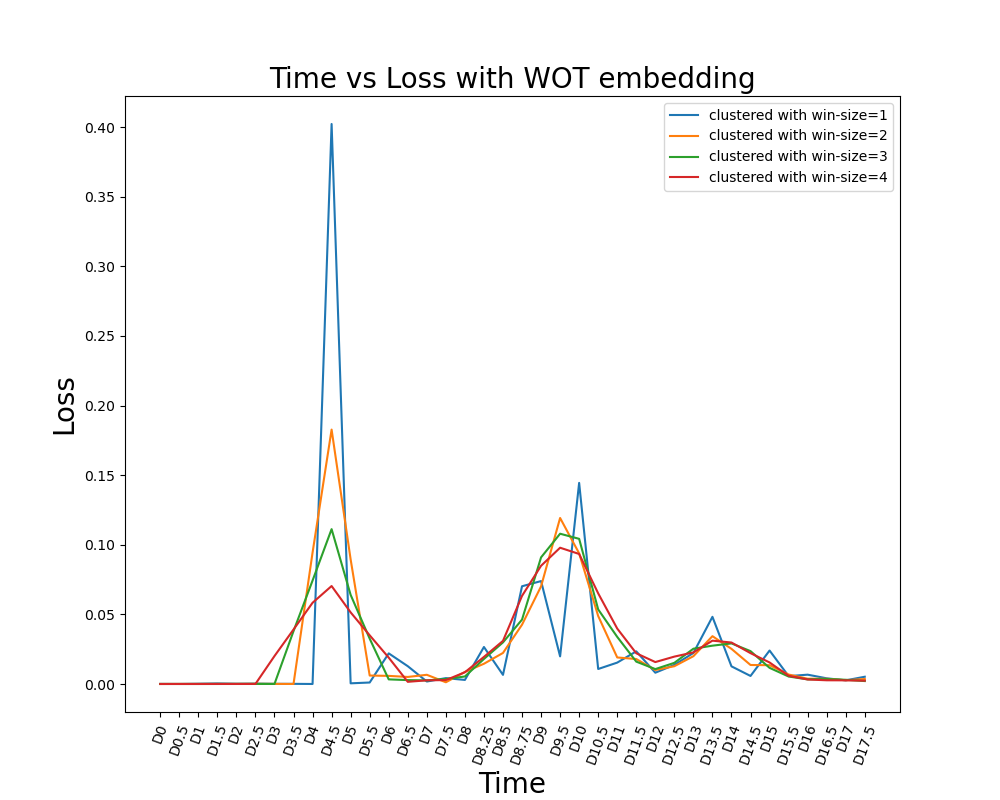
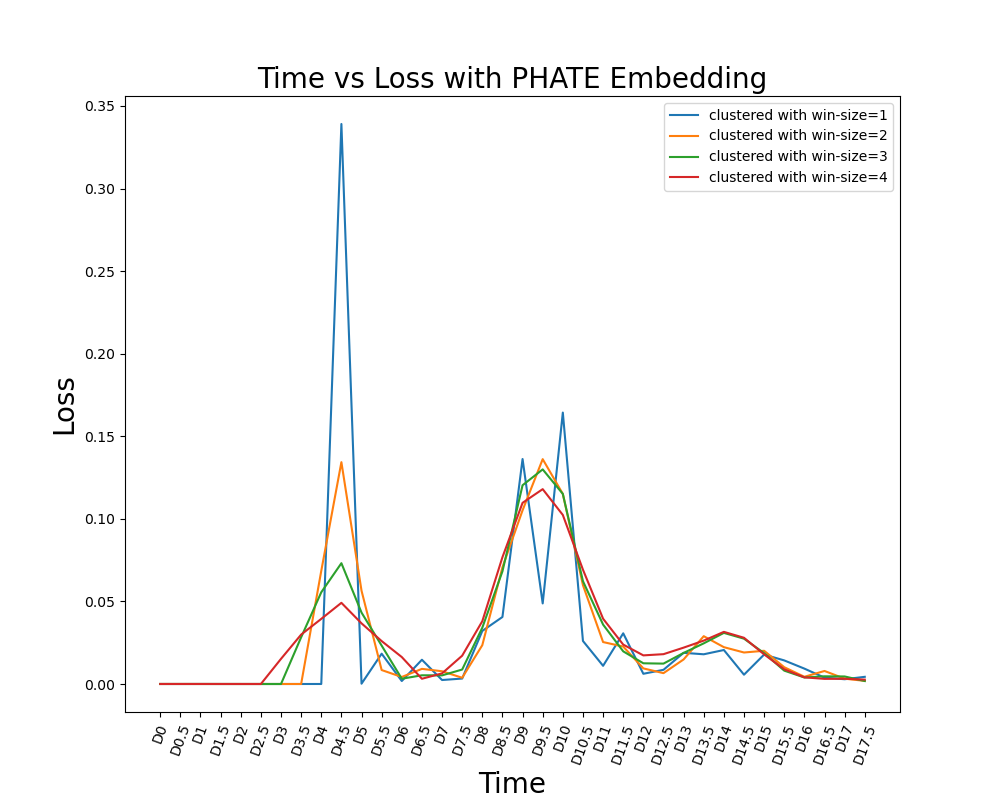
update

diff --git a/test/wot_real_data.py b/test/wot_real_data.py
@@ -1,10 +1,3 @@
-# -*- coding: utf-8 -*-
-"""
-Created on Mon Nov  8 02:33:09 2021
-
-@author: User
-"""
-
 import numpy as np
 import pandas as pd
 import anndata
@@ -41,6 +34,9 @@ df = pd.read_csv(r'..\wot\data\full_df.csv')
 df = df[df['day'] != 8.25]
 df = df[df['day'] != 8.75]
 time_labels = [float(i[1:]) for i in time_names]
+sample_size = pd.DataFrame()
+sample_size['day'] = time_labels
+sample_size['sample size'] = df.groupby('day').size().to_numpy()
 
 T = len(time_labels)
 k = len(np.unique(df['cell type']))
@@ -98,7 +94,7 @@ ax.set_xticks(x)
 ax.set_xticklabels(time_names[:-1], rotation=70, size=10)
 ax.set_xlabel('Time', size=20)
 ax.set_ylabel('Loss', size=20)
-ax.set_title(r'Time vs Loss with WOT embedding', size = 20)
+ax.set_title(r'Time vs Loss with PHATE Embedding', size = 20)
 plt.legend()
 
 graph_tmap = True
